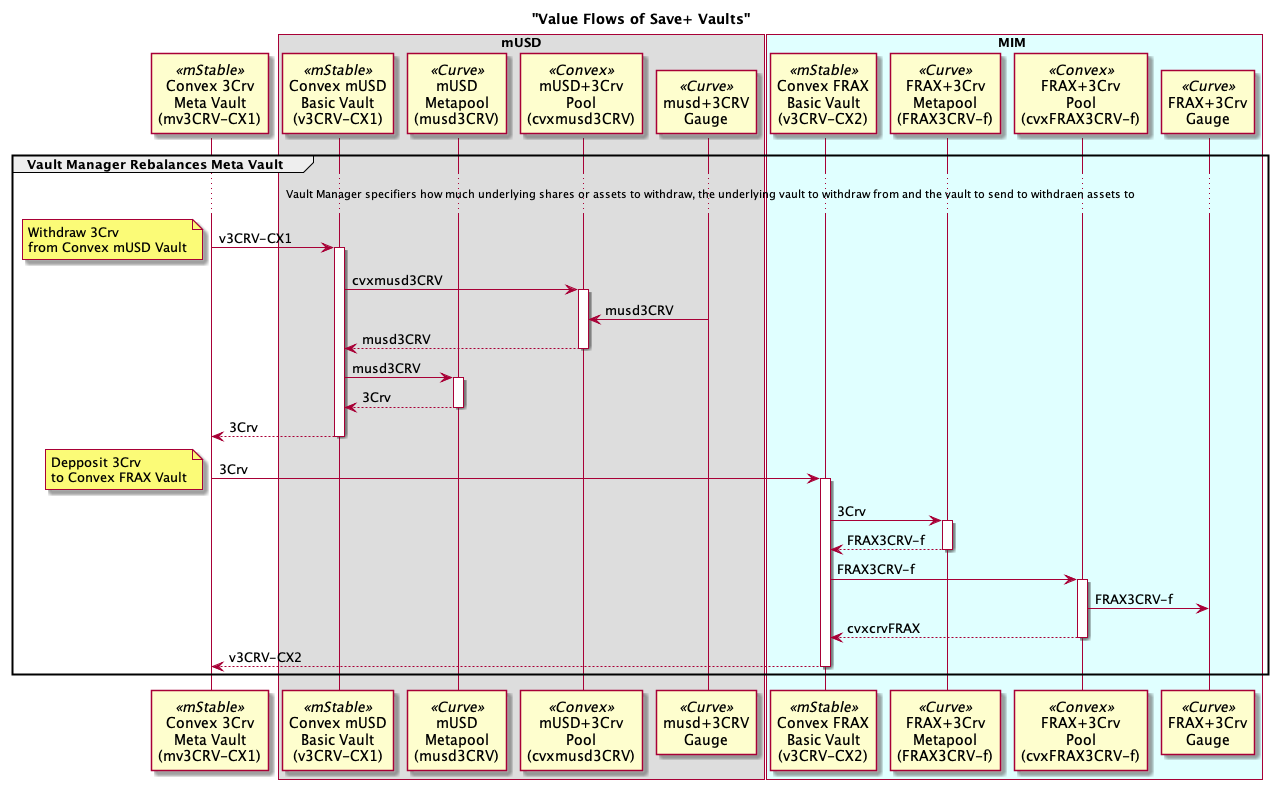
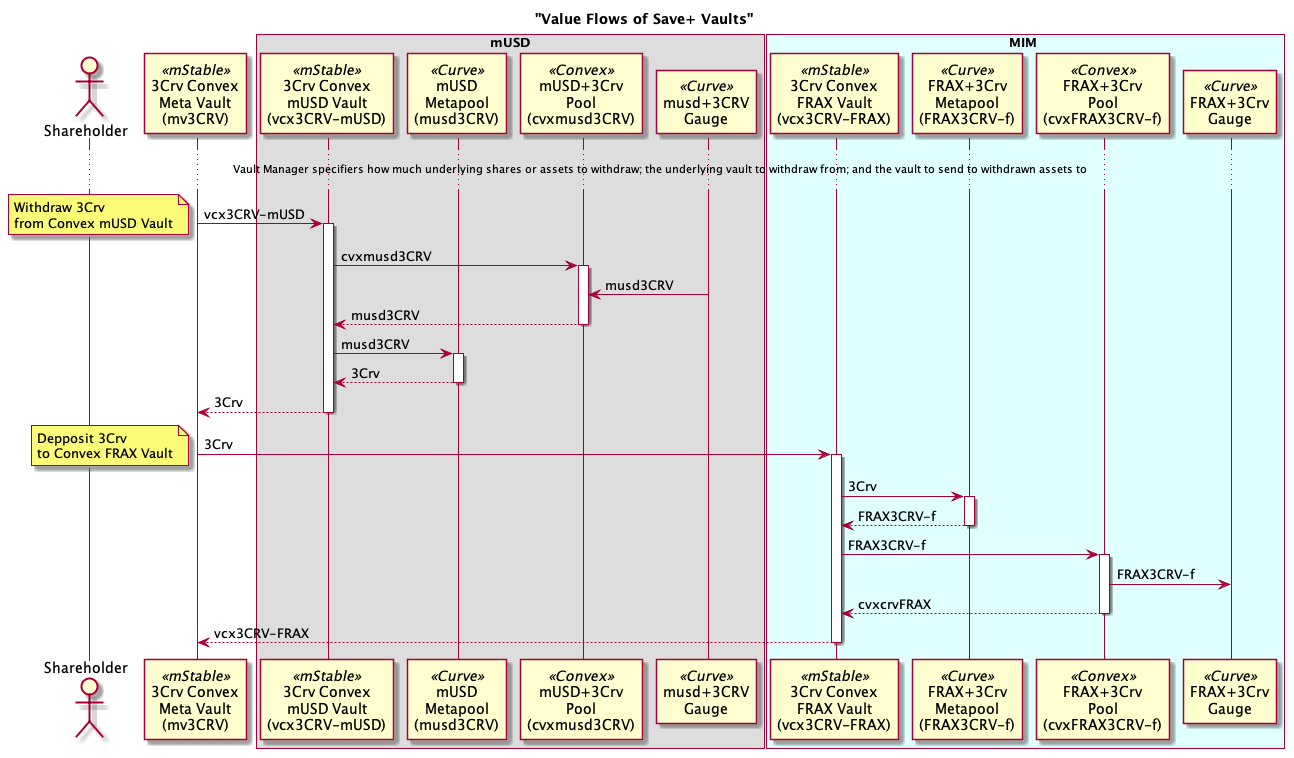
chore: update value flow diagrams

Changed region(s): [[0.0, 0.0, 1.0, 1.0], [0.4272, 0.5765, 0.4577, 0.6372], [0.3357, 0.5765, 0.3662, 0.6372]]

diff --git a/savePlus.md b/savePlus.md
@@ -1,9 +1,12 @@
-# Convex Vaults
+# Convex Meta Vaults
+
+The first set of EIP-4626 vaults for staking 3Pool-based (3Crv) Curve Metapools in Convex.
 
 ![savePlusDeployment](./docs/savePlusDeployment.png)
-## DAI/USDC/USDT Vault for Meta Vault of Convex Vaults for 3Pool-based Curve Metapools (3Crv)
 
-Abstract ERC-4626 vault with DAI, USDC or USDT asset invested in 3Pool, and then the 3Pool LP token (3Crv) is invested in the underlying 3Crv Convex 3Pool Meta Vault.
+## DAI/USDC/USDT 3Pooler Meta Vaults
+
+Abstract ERC-4626 vaults with DAI, USDC or USDT asset invested in Curve's [3Pool](https://curve.fi/3pool), and then the 3Pool LP token (3Crv) is invested in an underlying 3Pool-based (3Crv) Meta Vault.
 
 -   [Curve Vault Contracts](./contracts/vault/liquidity/curve)
 -   Implementing contract [Curve3CrvBasicMetaVault](./contracts/vault/liquidity/curve/Curve3CrvBasicMetaVault.sol)
@@ -20,7 +23,7 @@ Withdraw of assets (3Crv) are proportionally withdrawn from the underlying asset
 
 ## Convex Vault for 3Pool-based Curve Metapools (3Crv)
 
-ERC-4626 vault that deposits Curve 3Pool LP tokens (3Crv) in a Curve Metapool, eg musd3Crv; deposits the Metapool LP token in Convex; and stakes the Convex LP token, eg cvxmusd3Crv, in Convex for CRV and CVX rewards. The Convex rewards are swapped for a Curve 3Pool token, eg DAI, USDC or USDT, using the Liquidator module and donated back to the vault. On donation back to the vault, the DAI, USDC or USDT is deposited into the underlying Curve Metapool; the Curve Metapool LP token is deposited into the corresponding Convex pool and the Convex LP token staked.
+ERC-4626 vault that deposits Curve 3Pool LP tokens (3Crv) in a Curve 3Pool-based Metapool, eg musd3Crv; deposits the Metapool LP token in a [Convex](https://www.convexfinance.com/) pool; and stakes the Convex LP token, eg cvxmusd3Crv, for CRV and CVX rewards. The Convex rewards are swapped for a Curve 3Pool token, eg DAI, USDC or USDT, using the `Liquidator` module and donated back to the vault. On donation back to the vault, the DAI, USDC or USDT is deposited into the underlying Curve Metapool; the Curve Metapool LP token is deposited into the corresponding Convex pool and the Convex LP token staked.
 
 -   [Convex Vault Contracts](./contracts/vault/liquidity/convex)
 -   Implementing contract [Convex3CrvLiquidatorVault](./contracts/vault/liquidity/convex/Convex3CrvLiquidatorVault.sol)
@@ -43,9 +46,18 @@ The [Liquidator](./contracts/vault/liquidator) module is responsible for collect
 
 The high level flow of value (tokens) between contracts. The arrows are the movement of tokens (value) and not contract calls like typical sequence diagrams.
 
-## Deposit of 3Crv to Meta Vault
+## Deposit DAI to 3Pooler Vault
 
-A shareholder deposits 3Crv into the Meta Vault and receives vault shares (mv3Crv-CX1). The shares are minted using the assets per share after the last settlement.
+A shareholder deposits DAI into the 3Pooler vault.
+The 3Pooler vault adds the DAI to Curve's 3Pool in exchange for the 3Pool Liquidity Provider (LP) token (3Crv).
+The 3Pooler contract deposits the 3Crv into the underlying Meta Vault and receives the minted Meta Vault shares (mv3Crv). Note the Meta Vault does not deposit the 3Crv into any underlying vaults. This is done in a separate settlement transaction by the Vault Manager. 
+Finally, the 3Pooler contract mints shares (3pDAI) to the shareholder.
+
+![Deposit 3Pooler](./docs/savePlusValueFlowDeposit3Pooler.png)
+
+## Deposit 3Crv to Meta Vault
+
+A shareholder deposits 3Crv into the Meta Vault and receives vault shares (mv3CRV). The shares are minted using the assets per share after the last settlement.
 
 Every 5 days, the Vault Manager settles all deposits to the underlying vaults. This can be to a single vault or across all underlying vaults. The vault manager has the discretion at settlement to decide on what proportions of the deposited 3Crv are invested to which underlying vault.
 
@@ -56,8 +68,7 @@ The performance fee is charged by minting new meta vault shares to the vault's f
 
 ![Deposit Meta Vault](./docs/savePlusValueFlowDeposit.png)
 
-
-## Deposit directly to Convex 3Crv Vault
+## Deposit to 3Crv Convex mUSD Vault
 
 Shareholders can deposit directly to the Convex vault. They do not have to go through the Meta Vault.
 
@@ -73,20 +84,18 @@ The Vault Manager executes a number of transactions to collect the rewards (CRV 
 
 The Vault Manager can specify a swap between underlying vaults including the shares or assets amount, the underlying vault to withdraw from and the vault the assets should be deposited into. Multiple swaps can be done in the one rebalance transaction.
 
-The below example the Vault Manager partially swaps investment in the Convex 3Crv Meta Vault (mv3CRV-CX1) from the Convex mUSD Vault (v3CRV-CX1) to the Convex FRAX Vault (v3CRV-CX2).
+The below example the Vault Manager partially swaps investment in the Convex 3Crv Meta Vault (mv3CRV) from the Convex mUSD Vault (v3CRV-CX1) to the Convex FRAX Vault (v3CRV-CX2).
 
 ![Rebalance of Meta Vault](./docs/savePlusValueFlowRebalance.png)
 
-## Withdraw from Stablecoin Meta Vault
+## Withdraw 3Crv from Meta Vault
 
-A shareholder withdraws 3Crv from Meta Vault in exchange for vault shares (mv3CRV-CX1).
+A shareholder withdraws 3Crv from Meta Vault in exchange for vault shares (mv3CRV).
 
 If there are any assets in the meta vault from recent deposits waiting settlement, these will be used for the withdraw.
 
 If there is not enough assets in the meta vault to cover the withdraw, the required assets are sourced from the underlying vaults.
 
 The below diagram shows the 3Crv is withdrawn form just one underlying Convex Vault. A single underlying vault is used if the asset withdraw amount is less than 10% of the meta vault's total assets. If it withdrawn assets is great than 10%, then the required assets are withdrawn proportionally from the underlying vaults.
-
-TODO update assetsPerShare if updateThreshold reached.
 
 ![Withdraw Stablecoin Meta Vault](./docs/savePlusValueFlowWithdraw.png)
